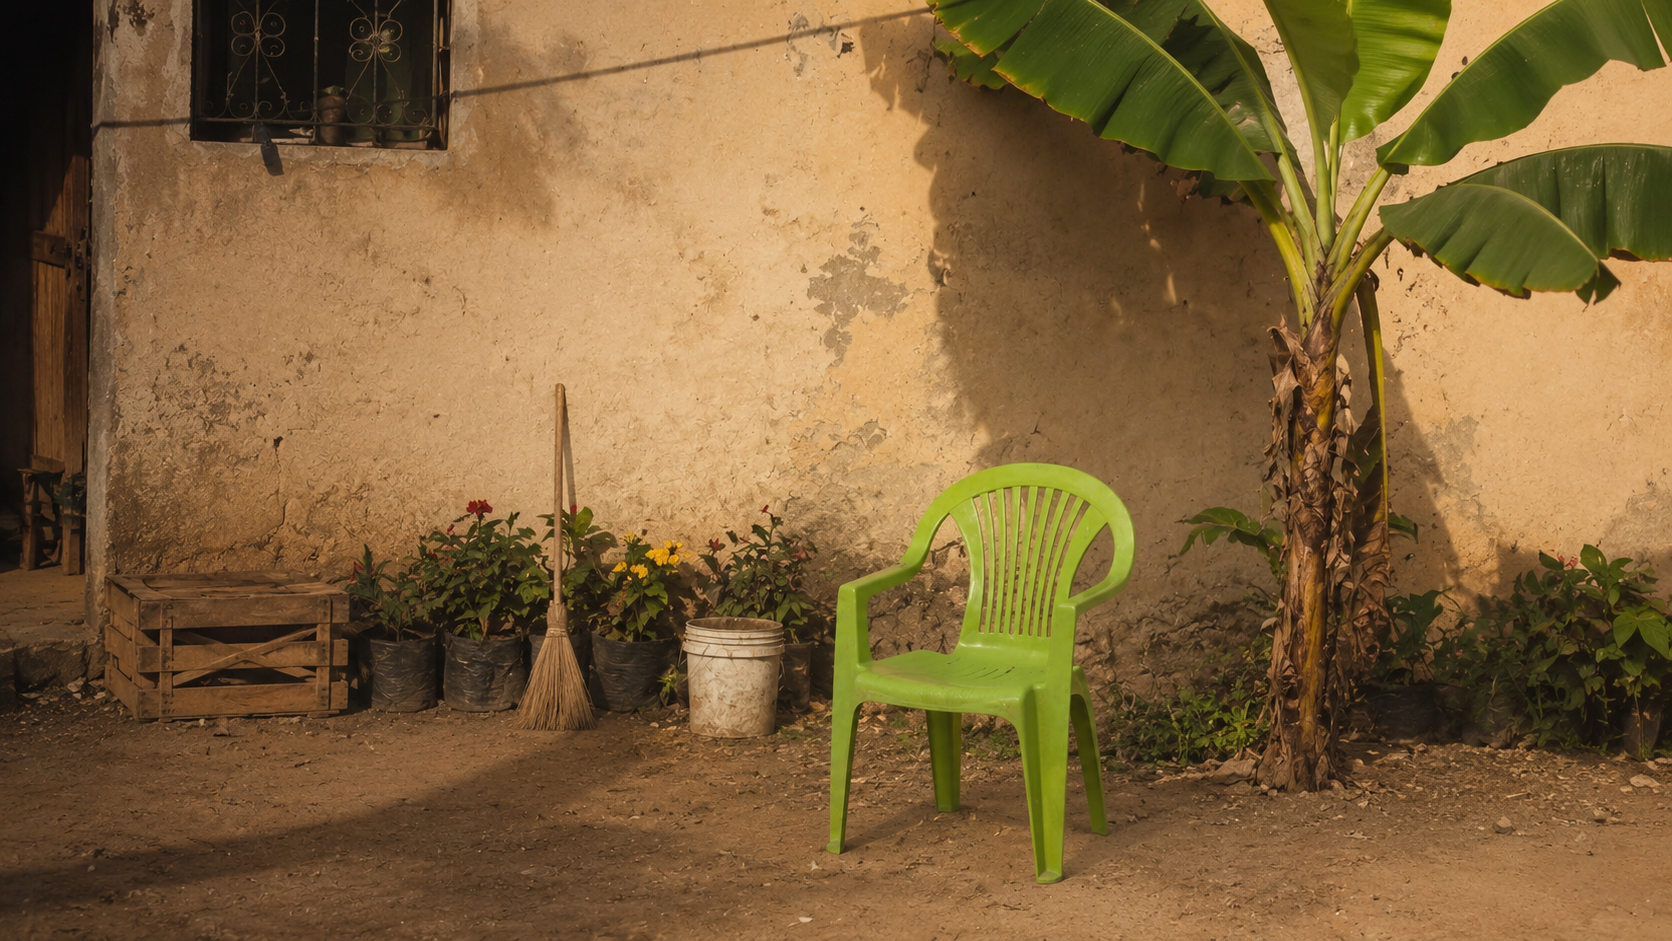
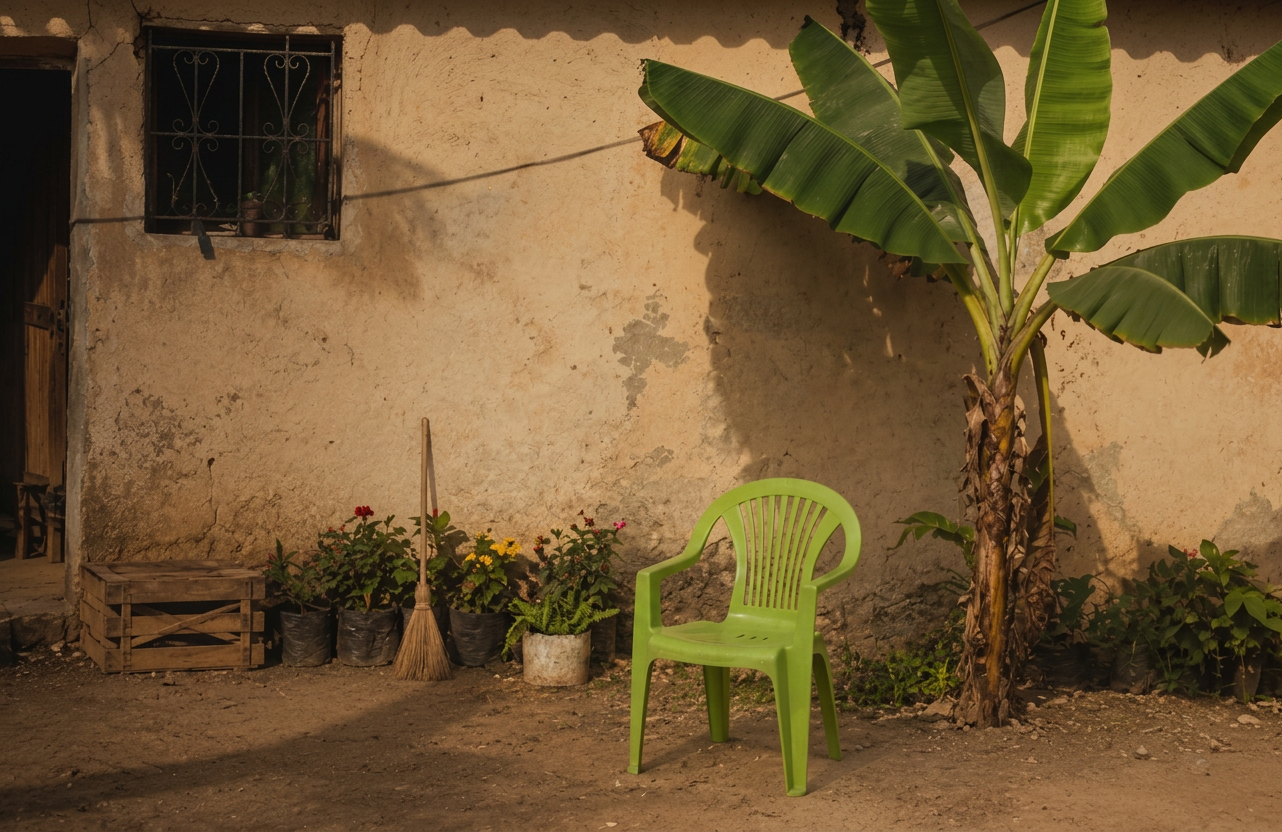
feat: hero usa imagen de fondo Fondo_Home con overlay verde oscuro
Sustituye el gradiente radial verde por <Image fill> apuntando a
/Fondo_Home.png (reemplazada con la nueva versión) más un overlay
rgba(10,20,5,0.55) para mantener legibilidad. Grain y watermark intactos.

diff --git a/app/page.tsx b/app/page.tsx
@@ -55,11 +55,9 @@ export default async function HomePage() {
         className="relative flex items-center justify-center overflow-hidden w-full"
         style={{ minHeight: "92vh" }}
       >
-        {/* Fondo con gradiente oscuro verde */}
-        <div
-          className="absolute inset-0"
-          style={{ background: "radial-gradient(ellipse at 50% 50%, #2d5a1b 0%, #1c3a10 55%, #0e1e08 100%)", position: "absolute", inset: 0 }}
-        />
+        {/* Fondo con imagen */}
+        <Image src="/Fondo_Home.png" alt="" fill className="object-cover object-center" priority />
+        <div className="absolute inset-0" style={{ background: "rgba(10,20,5,0.55)" }} />
         {/* Textura grain */}
         <div
           className="absolute inset-0 pointer-events-none"